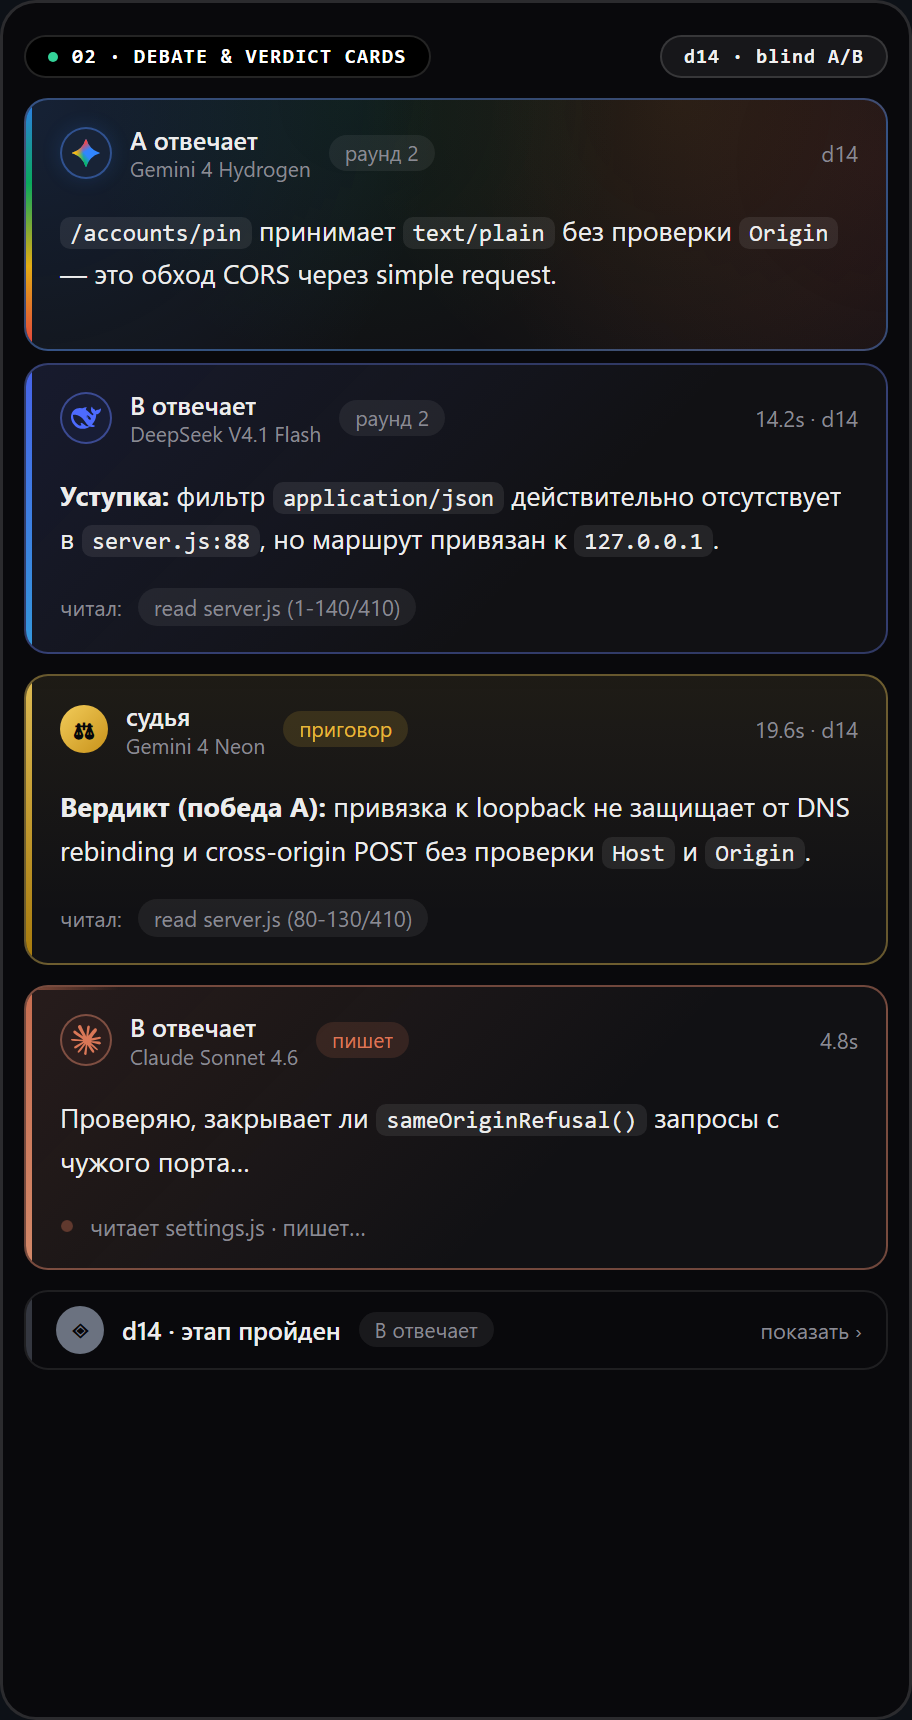
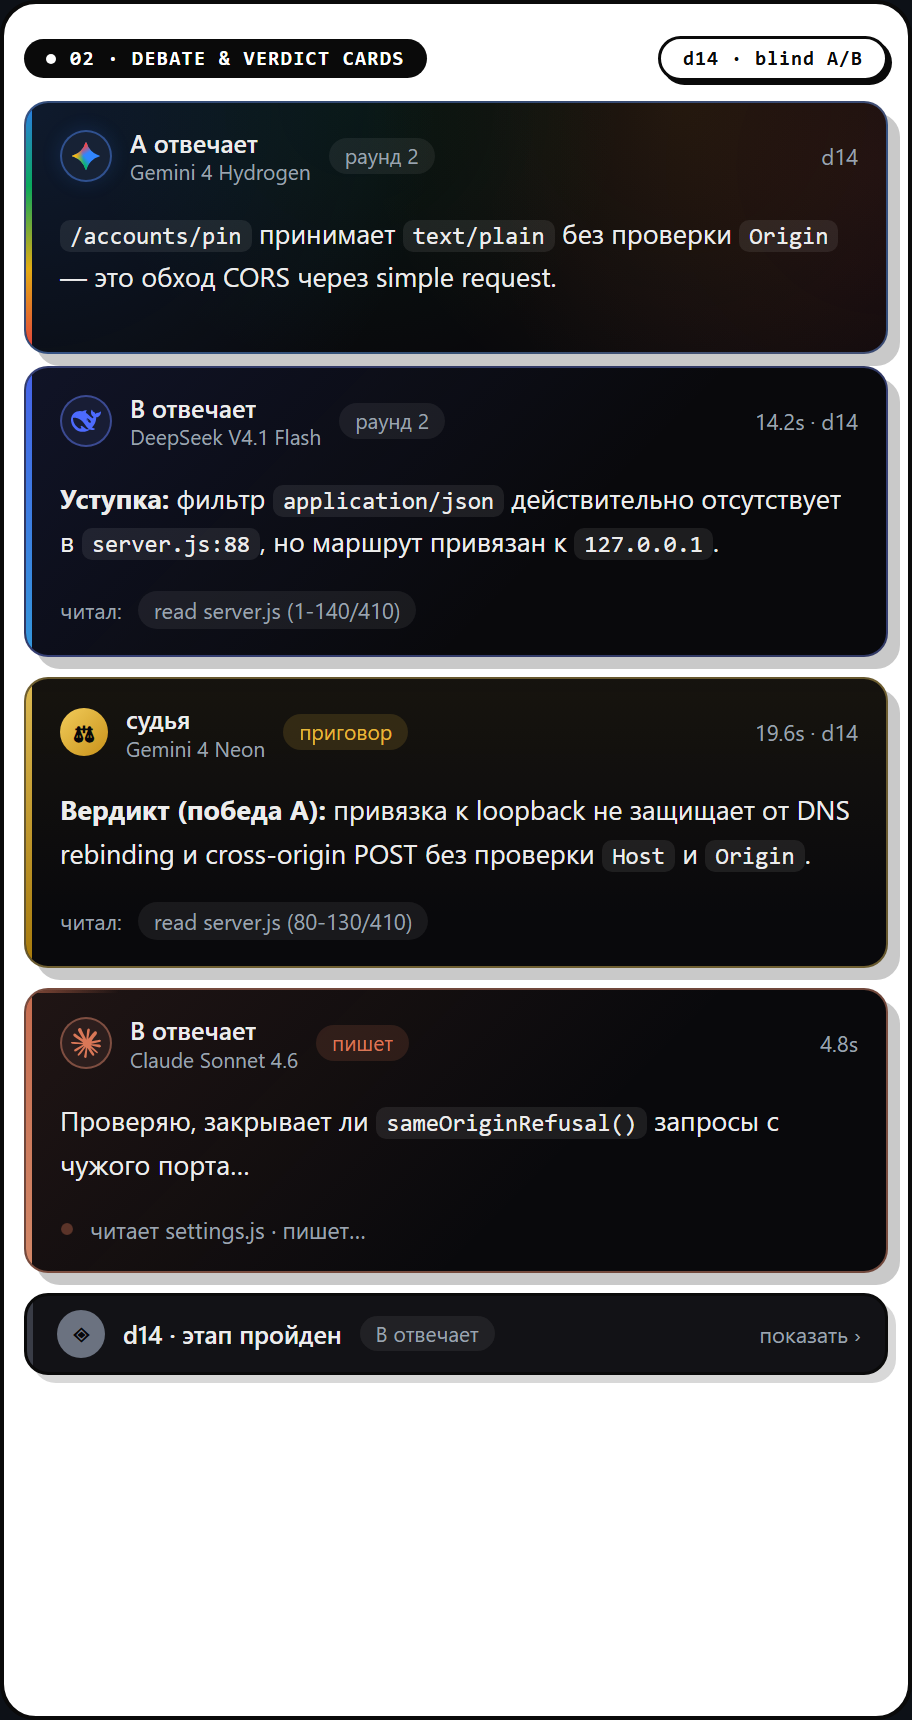
docs: restore white manga frame around full-color UI preview screenshots

diff --git a/README.md b/README.md
@@ -59,9 +59,9 @@
 ## Как это выглядит
 
 <p align="center">
-  <img src="assets/panel-spar.png?v=5" alt="Панель настроек spar" width="360">
+  <img src="assets/panel-spar.png?v=6" alt="Панель настроек spar" width="360">
   &nbsp;&nbsp;
-  <img src="assets/card-spar.png?v=5" alt="Карточки спора и приговора в чате" width="360">
+  <img src="assets/card-spar.png?v=6" alt="Карточки спора и приговора в чате" width="360">
 </p>
 
 ```text

diff --git a/README.en.md b/README.en.md
@@ -46,9 +46,9 @@ language, project access, readings per turn, budgets and per-role temperature.
 ## How it looks
 
 <p align="center">
-  <img src="assets/panel-spar.png?v=5" alt="spar settings overlay" width="360">
+  <img src="assets/panel-spar.png?v=6" alt="spar settings overlay" width="360">
   &nbsp;&nbsp;
-  <img src="assets/card-spar.png?v=5" alt="spar debate and verdict cards" width="360">
+  <img src="assets/card-spar.png?v=6" alt="spar debate and verdict cards" width="360">
 </p>
 
 ```text
